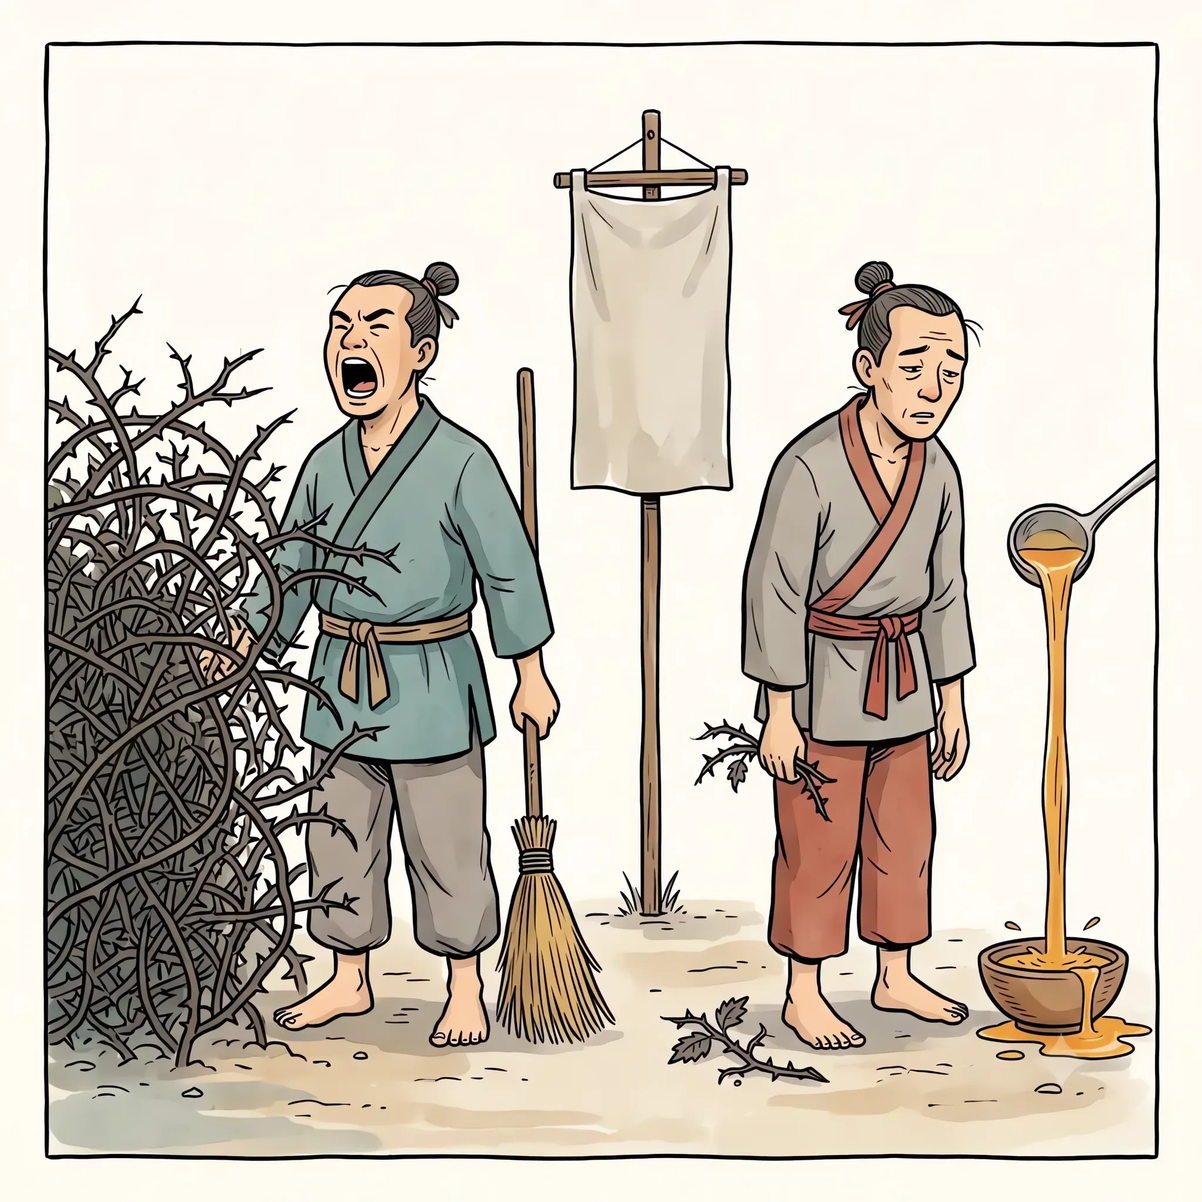
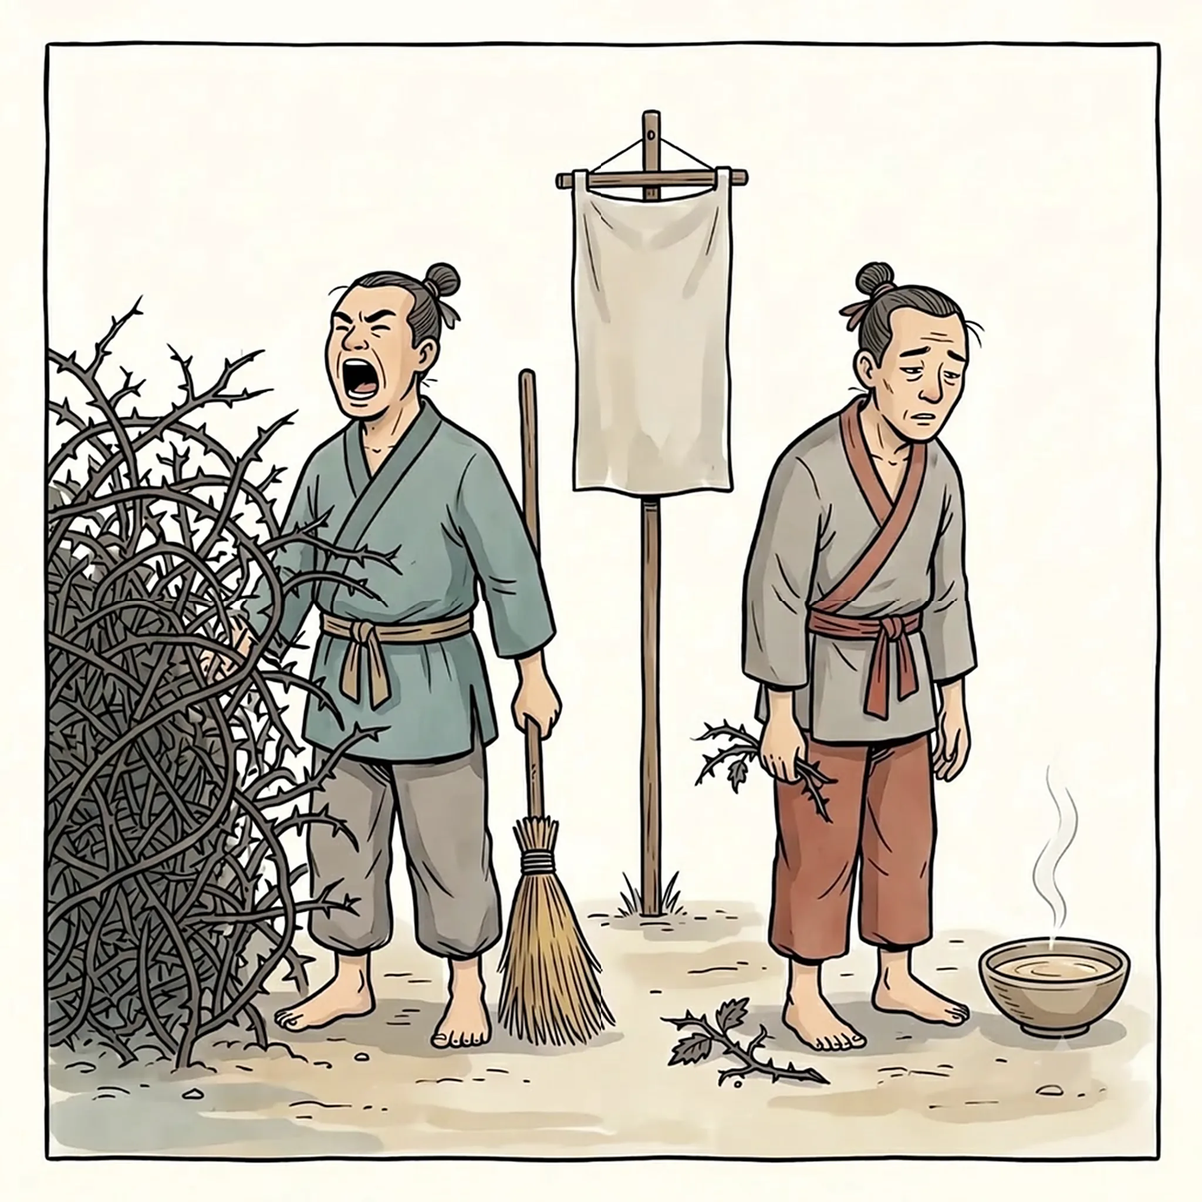
redraw8: s16p01 補사발(甘·盛 반납) · s14p03 大黃 약탕관(補·氣·中 반납) — blind11 둘 다 ✓
Claude-Session: https://claude.ai/code/session_01H8LcZK4WVLkMjSUBUXBg6J

Changed region(s): [[0.0312, 0.0312, 0.9688, 0.9688], [0.625, 0.375, 0.6562, 0.4375], [0.0938, 0.25, 0.125, 0.2812]]

diff --git a/index.html b/index.html
@@ -1021,9 +1021,9 @@ footer{color:#999;font-size:12px;text-align:center;padding:20px}
 <tr class="reason"><td colspan="2" class="rz">다리 — 실제 대황 단면이 노랗다(자형이 아니라 실물 다리). 커피=苦, 얼음 덩이=寒.<br>◆ 개념 — 攻下藥의 대표. 將軍이라 불릴 만큼 작용이 맹렬하다.<br>　▸ 도구 교정 후 재판독(2026-08-29, 규칙 152·153) — ✗ **결손 — 스펙에 없는 소품 셋이 화면을 지배한다.** 커피잔(검은 액체) · 얼음 덩이 · 아래 선반의 구운 조각 둘은 **prop 어느 행에도 없다.** 게다가 §5 위반이다 — 얼음은 「뜻이 셋이라 혼자 두지 않는다」이고 寒은 눈송이가 지며, 김 나는 검은 커피는 苦 전담 기호다. [1] 「무너진 울타리+쏟아지는 흙」(瀉下攻積)은 화면 절반을 먹는데 판독자가 **나무결로 보고 판독 실패**했고, [3] 「삽으로 퍼내는 흙」의 삽이 없다. 大黃의 **大도 무기호**다. 판독자 총평 — 「6장 중 판독 실패도가 가장 높다」.<br>　▸ 재작도 완료(2026-08-29) — ✓ **스펙 밖 소품 셋을 지웠다** — 커피잔(§5 苦 전담) · 얼음 덩이(§5 「혼자 두지 않는다」 위반) · 아래 선반의 구운 조각 둘. 그 자리에 [3]의 **삽으로 흙 퍼내기**를 넣어 「무너진 울타리 + 쏟아지는 흙」이 나무결이 아니라 흙으로 읽히게 했다. 1회차. ⚠ **大黃의 大는 여전히 무기호다**(규칙 147) — 굵은 뿌리가 그것을 진다고 볼 여지는 있으나 확정 기호가 아니다.<br>　▸ 3차 재판독(2026-08-29, 규칙 150·153, blind3) — ✗ 재작도 후에도 실패 ⚠ ★ 신규 유령: 화덕 곁 삽 위 흙 = 灶心土(伏龍肝)로 읽혀 표제어가 黃土湯으로. 大黃의 大 여전히 무기호<br>　▸ 빈틈 메우기(2026-08-29) — **大에 다리를 놓았다**(규칙 147 — 이름 두 글자 중 하나만 그리면 다리가 아니다). 大 = 「같은 것 옆에서 두 배」 — §5 虛(삼분의 일로 줄어든 것)와 같은 규칙 92-b 문법이라 새 어휘가 0개다. 黃은 샛노란 단면이 이미 진다.<br>　　(종전 소품 — 단면이 샛노란 굵은 뿌리)<br>　▸ 빈틈 메우기(2026-08-29) — ⚠ 재작도 스펙 — 화면을 **왼쪽 위(무너진 울타리+흙더미+삽) ↔ 오른쪽 아래(도마 위 뿌리 둘 + 화덕 위 냄비 둘)** 로 갈라 배치한다. 삽과 불은 화면의 대각선 양 끝에 둔다.<br>　　(종전 소품 — 단면이 샛노란 굵은 뿌리 — 그 바로 옆에 **같은 종류의 보통 굵기 뿌리 하나**가 나란히 눕고, 굵은 쪽이 그 두 배다)<br>　▸ 재작도 5차(2026-08-31~2026-09-02, 규칙 161·162·164) — 삽과 스펙 밖 인물(밀짚모자 농부)을 지워 地黃 유령을 해체하고, 두 뿌리를 맞닿게 붙였다. blind5 — 1단계(생판) ✗ **황토탕 60%**: 삽이 없어도 「흙더미+부엌」 무대가 伏龍肝을 다시 불렀고 나사 프레스=아교·벽돌담=백출로 일곱 미가 조립됐다(규칙 161 확장 — 유령은 무대 전체에서 난다). 2단계(계통, 大 문법 제공) ✓ **大黃 85%** — 두 뿌리+노란 단면=大黃, 무너진 담=瀉下攻積, 노란 조각=後下, 검은 냄비=久煎 대비까지 전부 복원. 地黃 유령 소멸.</td></tr>
 <tr><td class="prop">무너진 나무 울타리 사이로 쏟아져 나오는 흙더미 — 흙덩이와 잔돌과 마른 풀뿌리가 섞였다 (삽 없음) <span class="why">왜?</span></td><td class="fact">瀉下攻積 — 積滯를 뚫어 아래로 내보냄</td></tr>
 <tr class="reason"><td colspan="2" class="rz">다리 — 막혀 있던 것이 둑을 허물고 쏟아지는 장면.<br>◆ 개념 — 陽明腑證의 承氣湯이 大黃이 주역 — s13p02의 뚜껑 잠긴 솥과 연결. 　▸ 글자 사전 판정(2026-08-25, 규칙 120·127) — **瀉下의 瀉에는 짚 빗자루를 놓지 않는다.** §5의 빗자루는 **補瀉의 瀉**(s16p01[2]·s18p09[3]) 전담이라 本草 效能語에 놓으면 침구 보사로 딥링크가 잘못 걸린다. 무너진 둑으로 쏟아지는 흙더미가 瀉下 두 글자를 통째로 진다.<br>　▸ 빈틈 메우기(2026-08-29) — 삽을 여기로 옮겼다. 두 가지를 한꺼번에 고친다 — ⓐ §5 「화덕 곁의 삽 위 흙 = 灶心土(伏龍肝)」 유령이 사라진다 ⓑ 흙더미가 **나무결이 아니라 흙으로** 읽힌다(1차 판독 실패 원인). 삽은 이 행의 증거물이지 따로 한 사실을 지지 않는다(규칙 ④ 위반 아님).<br>　　(종전 소품 — 무너진 나무 울타리 사이로 쏟아져 나오는 흙더미)<br>　　(종전 소품 — 무너진 나무 울타리 사이로 쏟아져 나오는 흙더미 — 흙덩이와 잔돌과 마른 풀뿌리가 섞였고, 흙더미에 **삽 한 자루가 꽂혀** 있다 (화면 왼쪽 위, 불에서 가장 먼 자리))<br>　▸ 재작도 5차(2026-09-02) — 삽을 지웠다. 삽은 흙과 합쳐져 「地」를 완성해 표제어를 地黃으로 옮겨 놓았다(blind4, 규칙 161). 흙더미의 질감(덩이·잔돌·풀뿌리)만으로 흙이 읽힌다. ⚠ 생판 독자는 이 흙더미를 灶心土로 읽는다(blind5 1단계) — 이 판은 계통 문법(약재 실물이 표제어) 위에서 선다.</td></tr>
-<tr class="trap"><td class="prop">다 끓은 냄비에 마지막에 넣는 노란 조각 <span class="why">왜?</span></td><td class="fact">後下 — 나중에 넣어 살짝만 달인다</td></tr>
-<tr class="reason trap"><td colspan="2" class="rz">다리 — 이미 다른 약이 끓고 있는 냄비에 뒤늦게 투입.<br>◆ 개념 — 오래 달이면 사하력이 크게 준다. 生用·後下=瀉下, 오래 달이거나 熟用=活血 쪽으로 성질이 바뀐다.<br>　▸ 재작도 5차(2026-09-02) — 왼쪽 냄비 속 어두운 조각들을 지우고 샛노란 조각 하나만 방금 넣은 듯 반쯤 잠기게 띄웠다. blind5 2단계에서 「後下」로 읽혔다.</td></tr>
-<tr><td class="prop">그 옆 같은 모양의 냄비(김 없음) — 같은 노란 조각이 처음부터 함께 들어가 오래 끓은 나머지 **검게 문드러져 형체가 풀린 죽**이 됐다 <span class="why">왜?</span></td><td class="fact">用法에 따라 效가 갈린다</td></tr>
+<tr class="trap"><td class="prop">주둥이와 손잡이가 달린 **흙빛 약탕관** — 갈색 달인 물이 **반쯤** 담겼고, 그 위로 손이 **노란 조각 하나를 막 떨어뜨리는 중**(가는 김 한 줄) <span class="why">왜?</span></td><td class="fact">後下 — 나중에 넣어 살짝만 달인다</td></tr>
+<tr class="reason trap"><td colspan="2" class="rz">다리 — 이미 다른 약이 끓고 있는 냄비에 뒤늦게 투입.<br>◆ 개념 — 오래 달이면 사하력이 크게 준다. 生用·後下=瀉下, 오래 달이거나 熟用=活血 쪽으로 성질이 바뀐다.<br>　▸ 재작도 5차(2026-09-02) — 왼쪽 냄비 속 어두운 조각들을 지우고 샛노란 조각 하나만 방금 넣은 듯 반쯤 잠기게 띄웠다. blind5 2단계에서 「後下」로 읽혔다.<br>　▸ 재작도 8차(2026-10-10, 규칙 173) — blind10에서 **補中益氣湯 40%**(大黃 2순위 30%). 종전 「다 끓은 냄비」가 **찰랑한 국물 + 흰 김 + 같은 그릇 셋 중 가운데** 꼴이라 §5 【補】+【氣】+【中】을 재현했다. 瀉下藥 판에 補 꼴 솥이 있었다. 역검색: 【苦】= 김 나는 검은 커피 — 그래서 **검게·김 많이**도 못 쓴다. 흙빛 탕관·갈색 물·반쯤·김 한 줄·**떨어뜨리는 손**(後下의 「마지막에」를 행위로)로 짓는다. 탕관은 둘뿐(中 금지).</td></tr>
+<tr><td class="prop">그 옆 **같은 약탕관**(김 없음) — 같은 노란 조각이 처음부터 들어가 오래 끓은 나머지 **검게 문드러져 형체가 풀린 죽**이 됐다 <span class="why">왜?</span></td><td class="fact">用法에 따라 效가 갈린다</td></tr>
 <tr class="reason"><td colspan="2" class="rz">다리 — 같은 약이 쓰는 법에 따라 다른 약이 된다는 것이 이 패널의 축.<br>◆ 개념 — 附子(先煎으로 독을 줄임)와 정반대 방향의 用法 사실.<br>　▸ 빈틈 메우기(2026-08-29) — 삽을 [1]로 보내고 이 자리를 바꿨다. 「같은 것 둘, 다른 결과」가 用法 갈림의 정본 문법이다 — [2]의 샛노란 조각(後下)과 나란히 놓여야 성립한다. 종전 「삽으로 퍼내는 흙」은 用法을 짓지 못했고 灶心土 유령의 원인이었다.<br>　　(종전 소품 — 삽으로 퍼내는 흙)<br>　　(종전 소품 — 그 옆 냄비 — 같은 노란 조각이 처음부터 함께 들어가 오래 끓은 나머지 **검게 문드러져 형체가 풀렸다**)<br>　▸ 재작도 5차(2026-09-02) — 두 냄비가 나란히 완전하게 보이도록 다섯 라운드를 썼다(옮기기 지시는 무시되고 「지우고 새로 놓기」만 먹혔다 — 규칙 151 재확인). blind5 2단계에서 「오래 달이거나 포제하면 검게 변하며 사하력이 꺾인다」로 읽혔다.</td></tr>
 </tbody></table>
 </div>
@@ -1391,8 +1391,8 @@ footer{color:#999;font-size:12px;text-align:center;padding:20px}
 <tr class="reason trap"><td colspan="2" class="rz">다리 — 덩굴이 작다고 병이 가벼운 게 아니다. 奪을 시들어 줄어든 크기로 옮겼다.<br>◆ 개념 — 虛는 邪氣의 크기가 아니라 精氣의 소모로 정의된다. 邪가 미미해도 정기가 무너지면 虛다.</td></tr>
 <tr><td class="prop">오른쪽 사람의 처진 어깨와 감기는 눈 <span class="why">왜?</span></td><td class="fact">神疲體倦</td></tr>
 <tr class="reason"><td colspan="2" class="rz">다리 — 정기가 빠지면 먼저 어깨가 처지고 눈이 감긴다.<br>◆ 개념 — 虛證의 표. 氣短·自汗과 함께 온다. 얼굴색으로 잡는 虛는 s12p04 참조. 　▸ 이름 회수 2차(2026-08-24, 규칙 126~131) — 神疲體倦 — 「처진 어깨 + 감기는 눈」은 **소품이 0개**다(규칙 106). 처방 — **옆구리에 세워 기대 놓은 지팡이 한 개.** 疲·倦(지쳐 스스로 못 섬)을 사물이 진다. 神은 포기.</td></tr>
-<tr><td class="prop">오른쪽 사람 옆 그릇에 부어지는 따뜻한 국물 <span class="why">왜?</span></td><td class="fact">虛者補之</td></tr>
-<tr class="reason"><td colspan="2" class="rz">다리 — 다리: 補는 채우는 동작이다. 그릇이 아니라 부어지는 국물 줄기가 그 동작이다. 그릇은 가구다.<br>◆ 개념 — 精氣를 채우는 補法. 補氣·補血·補陰·補陽으로 갈린다.</td></tr>
+<tr><td class="prop">오른쪽 사람 옆 바닥에 놓인 **맑고 따뜻한 국물이 찰랑찰랑 찬 그릇** — 가는 김 한 줄, 국자 없음, 넘치지 않음 <span class="why">왜?</span></td><td class="fact">虛者補之</td></tr>
+<tr class="reason"><td colspan="2" class="rz">다리 — 다리: 補는 채우는 동작이다. 그릇이 아니라 부어지는 국물 줄기가 그 동작이다. 그릇은 가구다.<br>◆ 개념 — 精氣를 채우는 補法. 補氣·補血·補陰·補陽으로 갈린다.<br>　▸ 재작도 8차(2026-10-10, 규칙 173) — blind10에서 이 판이 **蜂蜜 35%**로 읽혔다. 종전 그림은 **국자에서 걸쭉한 황갈색 액체가 그릇에 넘치게 부어지는** 꼴이라 §5 **【甘】(나무 국자가 꽂힌 꿀단지)** + **【盛】(넘쳐 흘러나오는 것)**을 그대로 재현했고, 판독자가 甘·補·瀉·盛을 봉밀의 효능 목록으로 조립했다. 국자를 빼고, 넘치지 않게 하고, 꿀빛이 아니라 **맑은 국물**로 — 【補】= 「그릇에 찰랑찰랑 찬 따뜻한 국물」 그 꼴만 남긴다. 盛은 왼쪽 가시덩굴(邪氣盛)이 진다.</td></tr>
 <tr><td class="prop">두 사람 사이에 선 깃발 하나 <span class="why">왜?</span></td><td class="fact">素問 通評虛實論</td></tr>
 <tr class="reason"><td colspan="2" class="rz">다리 — 깃발은 §5에서 학설·어록 기호다. 하나만 세워 두 문장이 같은 조문에서 나왔음을 표시했다.<br>◆ 개념 — 邪氣盛則實 精氣奪則虛. 여덟 글자가 邪正盛衰의 정의 전부다.</td></tr>
 <tr><td class="prop">두 사람 사이 깃발의 위·아래 두 칸 <span class="why">왜?</span></td><td class="fact">八綱 배속 — 實은 陽에 들고, 虛는 陰에 든다</td></tr>

diff --git a/src/coverage/blind11/702.md b/src/coverage/blind11/702.md
@@ -1,0 +1,43 @@
+# 702 판독
+
+## 1단계 — 생판 (사전 없이 그림만)
+
+**① 소품 전수와 나르는 사실**
+- 좌측 거대한 검은 가시덤불(잎 없음, 가시 무수·밀집) — 「가시 = 刺/蒺藜」, 덤불 규모 = 邪(또는 해당 작용)이 盛함. 오른쪽 손에 든 잔가지 대비 약 10배 이상.
+- 왼쪽 남자: 청록 도포, 눈 찡그리고 입 크게 벌려 고함 = **怒** → 肝陽上亢/肝火(實). 한 손은 덤불 속으로 들어가 있음.
+- 왼쪽 남자의 빗자루(1) — 쓸어냄 = 祛風/瀉(邪를 쓸어냄).
+- 가운데 십자 장대에 걸린 빈 흰 천(깃발, 글씨 없음, 1) — 「白」 색 전달 소품, 또는 비어 있음 = 虛.
+- 오른쪽 남자: 회색 상의·붉은 띠·붉은 바지, 처진 눈썹·풀 죽은 얼굴 = 우울·抑鬱 → 肝氣鬱結(또는 虛證).
+- 오른쪽 남자 손의 잎 달린 가시 잔가지(1) + 땅에 떨어진 같은 잔가지(1) = 2개.
+- 김 나는 그릇(1) — 우윳빛 따뜻한 액체 = 湯藥 또는 乳汁(乳閉).
+
+**② 표제어**
+- 1순위: **白蒺藜(刺蒺藜) — 平肝潛陽(怒한 사람)·疏肝解鬱(우울한 사람)·祛風(빗자루)·乳閉(우윳빛 그릇)** (30%)
+- 2순위: **虛實 대비 — 邪氣盛則實·精氣奪則虛 / 實則瀉之(빗자루)·虛則補之(湯)** (20%)
+- 3순위 후보: 荊防敗毒散 vs 人參敗毒散(흰 깃발 = 敗/항복, 가시 = 荊, 허약자 + 湯 = 人參) (10%)
+
+**③ 뜻 모를 소품·어색한 것·잘림**
+- 흰 깃발이 白인지, 항복(敗)인지, 빈 것(虛)인지 확정 불가.
+- 오른쪽 사람이 왜 가시가지를 들고 있는지(잎 달림 vs 좌측 잎 없음 대비 의미?) 불분명.
+- 덤불 안쪽 회색 덩어리(왼손이 들어간 자리) 정체 불명. 덤불이 왼쪽 프레임에 걸쳐 잘림(전체 크기 불명).
+- 두 사람 옷 색(청록 vs 회·적)이 의미를 나르는지 불명.
+
+## 2단계 — 계통 (blind6_사전요약 어휘로 재판독)
+
+**① 소품 재판독**
+- 왼쪽 남자 손의 짚 빗자루(1) = 사전 **瀉**(짚 빗자루) — 확정 기호.
+- 오른쪽 발치 김 나는 따뜻한 국물 그릇(1) = 사전 **補**(그릇에 찰랑찰랑 찬 따뜻한 국물). 김 = 氣(서린 흰 김)로 겹쳐 읽으면 補氣 쪽.
+- 좌측 가시덤불: 사전에 「가시」 항목은 없음 → 해로운 것 = **邪**로 읽음. 왼쪽 프레임 밖까지 넘쳐 잘린 거대 덤불 = **盛**(넘쳐 흘러나오는 것) → **邪氣盛**. 오른쪽 잔가지(손 1 + 땅 1 = 2)는 덤불 대비 1/10 이하로 작은 邪.
+- 두 사람: 오행왕국 인물(갑옷·곤룡포·밀짚모자·흰 도포·잠수복)이 아니므로 장부가 아니라 일반 환자. 왼쪽 = 고함(聲高氣粗)·건장 = **實證**, 오른쪽 = 풀 죽고 말없음(少氣懶言) = **虛證(精氣奪)**.
+- 가운데 흰 깃발: 사전 기호 없음. 「中 = 둘 사이의 한복판」 위치이긴 하나 깃발 자체가 무슨 글자인지 미해결.
+- 축: 왼쪽 「邪 盛 + 實 + 瀉」 ↔ 오른쪽 「正 虛 + 補」 좌우 대칭.
+
+**② 표제어**
+- 1순위: **虛實 補瀉 治則 — 實則瀉之·虛則補之 (邪氣盛則實·精氣奪則虛)** (55%)
+- 2순위: **扶正祛邪 (補 = 扶正, 瀉 = 祛邪)** (20%)
+- (1단계의 白蒺藜는 사전에 「白」「가시」 기호가 없고 빗자루·국물이 瀉·補로 확정되어 10% 이하로 내림.)
+
+**③ 잔결**
+- 흰 깃발(빈 천)의 글자 미해결 — 白·中·標 중 어느 것인지 불명, 군더더기일 가능성.
+- 오른쪽 사람이 든 잎 달린 가시가지 2개의 뜻(虛인데 邪가 남음 = 正虛邪戀?) 불명. 「虛 = 1/3로 줄어든 것」으로 보기엔 덤불 대비 너무 작음(1/10 이하) → 수 비율 어긋남.
+- 덤불이 왼쪽 프레임에 잘림(盛 표현으로 의도된 것으로 봄). 왼손이 덤불 속에 들어간 회색 덩이 정체 불명.

diff --git a/src/coverage/blind11/701.md b/src/coverage/blind11/701.md
@@ -1,0 +1,29 @@
+# 701 판독
+
+## 1단계 — 생판 (사전 어휘 없이 그림만)
+
+**① 소품 전수와 나르는 사실**
+- 굵은 뿌리 토막 **2개**: 겉은 흑갈색 껍질에 잔뿌리, 단면은 샛노랑. 큰 토막 단면 지름이 작은 것의 약 1.7배. 「크고(大) 노랗다(黃)」 → 大黃(根·根莖 약용), 단면 황색.
+- 나무 판자 궤짝(울타리·기둥 3)에 흙덩이가 꽉 참 → 장 속 積滯·燥屎. 판자 한가운데를 부수고 흙이 터져 나와 조리대로 쏟아짐 → 攻積導滯·瀉下, 「蕩滌腸胃·推陳致新」, 將軍의 「斬關奪門」.
+- 위에서 내려오는 나사봉 1개 → 뜻 모름(누르기·下?).
+- 손이 노란 조각(+부스러기 1)을 김 나는 탕관에 나중에 떨어뜨림 → 湯劑에 **後下**. 탕관이 찻주전자 꼴 → 開水泡服 가능.
+- 다른 불 위 질그릇 사발에는 검은 진흙 같은 찌꺼기와 잔뿌리 → 오래 달이면(久煎) 瀉下力 약해짐 대비(또는 熟大黃·大黃炭).
+- 버너 2개, 회색 벽돌 벽 → 배경.
+
+**② 표제어**: 1순위 **大黃** (80%) · 2순위 **大承氣湯**(大黃 後下) (7%)
+
+**③ 잔결**: 나사봉 뜻 모름. 사발의 검은 찌꺼기가 久煎인지 炭·瘀血인지 애매. 버너·사발은 아래 테두리에서 잘리고, 왼쪽 뒤 궤짝은 왼쪽 테두리에서 잘림. 뿌리 2개라는 수의 뜻은 모름.
+
+## 2단계 — 계통 (blind6_사전요약 어휘로 다시 읽기)
+
+**① 소품 전수와 나르는 사실**
+- 뿌리 토막 2개가 나란한데 큰 것이 작은 것의 약 2배(단면 지름 1.7배, 부피로는 2배 넘음) → 사전의 **大**(같은 것 둘 나란히, 하나가 두 배). 단면 샛노랑 → 黃. 둘을 합치면 大+黃 = **大黃**. 地黃(검붉은 뿌리 조각)과는 색으로 갈림.
+- 궤짝 속 흙이 판자를 뚫고 아래로 쏟아짐 → **下**(아래로 쏟아짐). 궤짝 안 흙과 밖 흙이 한 덩어리로 이어짐 → **通**(안과 밖이 이어짐). 합치면 「瀉下 通便·通腑」, 장 속 積滯를 밀어냄(攻積導滯). 판자가 깨진 건 傷 같지만, 깨진 것이 글자 사물이 아니어서 갈림 조건에 맞지 않음 → 傷 아님(그냥 「뚫고 나감」을 보여 주는 연출).
+- 손이 노란 조각을 위에서 탕관에 떨어뜨림 → 下 + 나중에 넣음 = **後下**(湯劑 후하). 찻주전자 꼴 → 開水泡服.
+- 주전자 속 김 나는 검은 갈색 액 → **苦**(김 나는 검은 커피)로 읽힘 → 味苦. 김은 氣로도 읽히지만 여기서는 苦의 김으로 봄.
+- 사발 속 흑갈색 덩이 진흙 → 그릇 위 검게 굳은 덩이면 **瘀** → 逐瘀通經(活血祛瘀)일 수 있음. 다만 검붉지 않고 흑갈색이라 반쯤만 맞음. 진창(濕)은 길·발밑 조건에 안 맞음. 久(셋 포개짐)가 없으니 1단계의 久煎 풀이는 근거를 잃음.
+- 寒 기호(눈송이)는 없음 → 性寒은 안 나옴.
+
+**② 표제어**: 1순위 **大黃** (90%) · 2순위 **大承氣湯**(大黃 後下·攻下) (5%)
+
+**③ 잔결**: 나사봉의 뜻은 사전으로도 안 풀림(降 추도 아님). 사발 덩이가 瘀인지는 색이 갈려 애매함. 性寒 기호 없음. 버너와 사발은 아래 테두리에서, 왼쪽 궤짝은 왼쪽 테두리에서 잘림. 大의 배수는 약 2배로 맞음.

diff --git a/src/coverage/blind11_report.md b/src/coverage/blind11_report.md
@@ -1,0 +1,16 @@
+# blind11 — 재작도 8차 확인 (2026-10-10)
+
+blind10이 특정한 규칙 173 회귀 둘을 고치고 같은 날 새 판독자(Opus)로 재시험.
+
+| 가림 | 판 | blind10 | blind11 2단계 1순위 | 판정 |
+|---|---|---|---|---|
+| 701 | s14p03 大黃 | △ 補中益氣湯 40% | **大黃 90%** | **△ → ✓** |
+| 702 | s16p01 邪正盛衰 實↔虛 | ✗ 蜂蜜 35% | **實則瀉之·虛則補之 55%** | **✗ → ✓** |
+
+## 무엇을 바꿨나 (규칙 173 역검색을 먼저 돌렸다)
+- **s16p01** — 국자(【甘】 꼴)와 넘침(【盛】)과 꿀빛을 뺐다. 남긴 것은 【補】 그 꼴 하나 — 「맑은 국물이 찰랑찰랑 찬 사발 + 가는 김 한 줄」. 판독자가 「가시덤불이 프레임 밖까지 넘침 = 邪氣盛」으로 盛을 제자리에서 읽었다.
+- **s14p03** — 「찰랑한 물 + 김 세 줄 + 같은 그릇 셋 중 가운데」(【補】【氣】【中】)를 「주둥이·손잡이 달린 흙빛 약탕관 + 갈색 약물 + 조각을 **떨어뜨리는 손** + 김 한 줄 + 그릇 둘」로. 역검색에서 【苦】= 김 나는 검은 커피가 걸려 검게·김 많이도 피했는데, 판독자는 그래도 「김 나는 검은 액 = 苦」를 읽었다 — 大黃이 苦이므로 해가 아니라 덤이었다.
+
+## 잔결(다음에)
+- s16p01 가운데 흰 깃발(素問 通評虛實論 표지·八綱 상하 두 칸)이 세 판독자 연속 「빈 깃발」로만 읽힌다 — 위·아래 두 칸이 그림에서 안 보인다.
+- s16p01 오른쪽 작은 가시가지가 덤불의 1/10이라 「虛 = 1/3」 배율 규약과 어긋난다는 지적.

diff --git a/src/coverage/blind5_rules.md b/src/coverage/blind5_rules.md
@@ -157,3 +157,11 @@ s12p01은 담요·못·핏줄·깨진 그릇 넷이 각자 병을 말해 「병 
 s12p01에서 손의 덩이를 빼자 【瘀】 독법이 **못 둘레의 靑 얼룩**으로 옮겨 갔다.
 「검붉게 굳은 덩이」라는 정의가 살갗의 멍까지 물기 때문이다. 【瘀】를 「몸 밖에 나온 덩이·알갱이 — 살갗의 멍·얼룩은 아니다」로 좁혔다.
 반납은 소품을 빼는 것으로 끝나지 않는다 — **그 기호의 정의가 어디까지 무는지**를 같이 봐야 한다.
+
+### 173 적용 기록 — 재작도 8차 (2026-10-10, blind10 회귀 둘)
+| 판 | 침범한 기호 | 어떻게 풀었나 | blind10 → blind11 |
+|---|---|---|---|
+| s16p01 | 【甘】(국자)·【盛】(넘침) — 補 사발을 꿀로 붓는 그림 | 국자·넘침·꿀빛 삭제, 【補】 꼴만(맑은 국물 찰랑+김 한 줄) | 蜂蜜 35% → **實則瀉之·虛則補之 55% ✓** |
+| s14p03 | 【補】(찰랑한 국물)·【氣】(김 셋)·【中】(그릇 셋 중 가운데) — 後下의 솥 | 약탕관(주둥이·손잡이)+갈색 약물+**떨어뜨리는 손**+김 한 줄, 그릇 둘 | 補中益氣湯 40% → **大黃 90% ✓** |
+
+둘 다 **그림을 그린 쪽이 심은 침범**이었고, 역검색 한 번으로 잡혔다. 173은 「끊을 때」가 아니라 **소품을 확정하기 전**에 돌리는 것이다.
